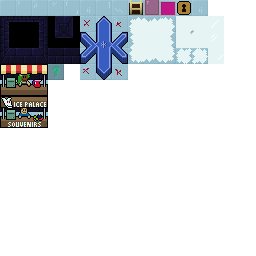
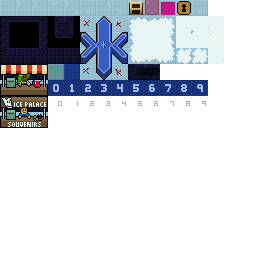
numfloor, and freshen completion flags

Changed region(s): [[0.1875, 0.25, 0.8125, 0.4062]]

diff --git a/src/game/sprite/sprite_numfloor.c b/src/game/sprite/sprite_numfloor.c
@@ -1,0 +1,206 @@
+/* sprite_numfloor.c
+ * 4x4 grid that when you step on a tile, it gets the next digit.
+ * After you've placed '9', the next step clears everything and places '0'.
+ * We coordinate with numfloor_ref to trigger flags.
+ * Our position must be the top-left corner of that 4x4 grid.
+ */
+ 
+#include "game/bellacopia.h"
+
+#define DOOR_LIMIT 8
+
+struct sprite_numfloor {
+  struct sprite hdr;
+  int qx,qy; // Top left corner in plane meters.
+  struct door {
+    int fld16id;
+    int fldid;
+    int password; // Value under (fld16id). If zero, we haven't got it yet. Lazy.
+  } doorv[DOOR_LIMIT];
+  int doorc;
+  int hx,hy; // Recent quantized hero position.
+  uint8_t state[16]; // 4x4 LRTB of tileid. Zero for none.
+  int next; // 0..9, next digit we'll place. If 0, we'll clear the state first.
+};
+
+#define SPRITE ((struct sprite_numfloor*)sprite)
+
+/* Init.
+ */
+ 
+static int _numfloor_init(struct sprite *sprite) {
+
+  SPRITE->qx=(int)sprite->x;
+  SPRITE->qy=(int)sprite->y;
+  SPRITE->hx=SPRITE->hy=-1;
+
+  /* Read the map to identify my associated passwords.
+   * numfloor and numfloor_ref in a group must all be on the same map.
+   */
+  const struct map *map=map_by_sprite_position(sprite->x,sprite->y,sprite->z);
+  if (!map) return -1;
+  struct cmdlist_reader reader={.v=map->cmd,.c=map->cmdc};
+  struct cmdlist_entry cmd;
+  while (cmdlist_reader_next(&cmd,&reader)>0) {
+    switch (cmd.opcode) {
+      case CMD_map_sprite: {
+          int rid=(cmd.arg[2]<<8)|cmd.arg[3];
+          if (rid==RID_sprite_numfloor_ref) {
+            int fld16id=(cmd.arg[4]<<8)|cmd.arg[5];
+            int fldid=(cmd.arg[6]<<8)|cmd.arg[7];
+            if (SPRITE->doorc>DOOR_LIMIT) {
+              fprintf(stderr,"Too many doors for numfloor, limit %d.\n",DOOR_LIMIT);
+            } else {
+              SPRITE->doorv[SPRITE->doorc++]=(struct door){fld16id,fldid,0};
+            }
+          }
+        } break;
+    }
+  }
+  
+  return 0;
+}
+
+/* There are four positions where a password can be encoded.
+ * Since there's only ten digits, only two positions can be full at a time, but just let that happen naturally.
+ * This gets called on every state change (but not initially), and it sets every known output field.
+ * Returns nonzero if we played a sound.
+ */
+ 
+static int numfloor_check_completion(struct sprite *sprite) {
+  if (!SPRITE->doorc) return 0;
+  int result=0;
+
+  // Collect the four-digit passwords currently present. (can't actually be more than two, and zero is perfectly normal).
+  int passv[4];
+  int passc=0;
+  const uint8_t *src=SPRITE->state;
+  int i=4;
+  for (;i-->0;src+=4) {
+    if (!src[0]||!src[1]||!src[2]||!src[3]) continue; // Row has at least one blank.
+    passv[passc++]=(
+      (src[0]-sprite->tileid)*1000+
+      (src[1]-sprite->tileid)*100+
+      (src[2]-sprite->tileid)*10+
+      (src[3]-sprite->tileid)
+    );
+  }
+  
+  // Visit each door. Load its password if we haven't yet, and compare to the visible passwords.
+  // Set each door's flag every time. If one was held open from a previous session, the first step closes it.
+  struct door *door=SPRITE->doorv;
+  for (i=SPRITE->doorc;i-->0;door++) {
+    if (!door->password) door->password=store_get_fld16(door->fld16id);
+    int present=0;
+    const int *pp=passv;
+    int pi=passc;
+    for (;pi-->0;pp++) if (*pp==door->password) {
+      present=1;
+      break;
+    }
+    int pv=store_get_fld(door->fldid);
+    if (present&&!pv) {
+      result=1;
+      store_set_fld(door->fldid,1);
+      g.camera.mapsdirty=1;
+    } else if (!present&&pv) {
+      store_set_fld(door->fldid,0);
+      g.camera.mapsdirty=1;
+    }
+  }
+  if (result) bm_sound(RID_sound_treasure);
+  return result;
+}
+
+/* We got stepped on.
+ * (rx,ry) is the relative cell position 0..3, no oobs please.
+ */
+ 
+static void numfloor_visit_cell(struct sprite *sprite,int rx,int ry) {
+  int p=ry*4+rx;
+  if ((p<0)||(p>=sizeof(SPRITE->state))) return; // oy, we said no oobs!
+  if (SPRITE->state[p]) return; // Restepping on a visited cell has no effect.
+  if (!SPRITE->next) memset(SPRITE->state,0,sizeof(SPRITE->state)); // Before placing zero, clear the state.
+  SPRITE->state[p]=sprite->tileid+SPRITE->next;
+  int digit=SPRITE->next;
+  if (++(SPRITE->next)>=10) SPRITE->next=0;
+  if (GRP(hero)->sprc>=1) { // Make a toast with the newly-placed digit, same idea as minesweep.
+    struct sprite *hero=GRP(hero)->sprv[0];
+    struct sprite *toast=sprite_spawn(hero->x,hero->y-0.5,0,0,0,&sprite_type_toast,0,0);
+    if (toast) {
+      char ch='0'+digit;
+      sprite_toast_set_text(toast,&ch,1);
+    }
+  }
+  if (!numfloor_check_completion(sprite)) {
+    bm_sound(RID_sound_treadle);
+  }
+}
+
+/* Update.
+ */
+ 
+static void _numfloor_update(struct sprite *sprite,double elapsed) {
+  int hx=-1,hy=-1;
+  if (GRP(hero)->sprc>=1) {
+    struct sprite *hero=GRP(hero)->sprv[0];
+    if (sprite_hero_is_grounded(hero)) {
+      hx=(int)hero->x;
+      hy=(int)hero->y;
+    }
+  }
+  if ((hx!=SPRITE->hx)||(hy!=SPRITE->hy)) {
+    SPRITE->hx=hx;
+    SPRITE->hy=hy;
+    int rx=hx-SPRITE->qx;
+    int ry=hy-SPRITE->qy;
+    if ((rx>=0)&&(rx<4)&&(ry>=0)&&(ry<4)) {
+      numfloor_visit_cell(sprite,rx,ry);
+    }
+  }
+}
+
+/* Render.
+ */
+ 
+static void _numfloor_render(struct sprite *sprite,int dstx,int dsty) {
+  graf_set_image(&g.graf,sprite->imageid);
+  int dstx0=dstx;
+  int dsty0=dsty;
+  int yi=4;
+  const uint8_t *tileid=SPRITE->state;
+  for (;yi-->0;dsty+=NS_sys_tilesize) {
+    int xi=4;
+    for (dstx=dstx0;xi-->0;dstx+=NS_sys_tilesize,tileid++) {
+      if (!*tileid) continue;
+      graf_tile(&g.graf,dstx,dsty,*tileid,0);
+    }
+  }
+  
+  // While Dot is standing on us, highlight the focussed cell. Same as her shovel.
+  int rx=SPRITE->hx-SPRITE->qx;
+  int ry=SPRITE->hy-SPRITE->qy;
+  if ((rx>=0)&&(rx<4)&&(ry>=0)&&(ry<4)) {
+    int hlx=dstx0+rx*NS_sys_tilesize;
+    int hly=dsty0+ry*NS_sys_tilesize;
+    uint8_t xform=0;
+    switch ((g.framec/10)&3) {
+      case 1: xform=EGG_XFORM_SWAP|EGG_XFORM_XREV; break;
+      case 2: xform=EGG_XFORM_XREV|EGG_XFORM_YREV; break;
+      case 3: xform=EGG_XFORM_SWAP|EGG_XFORM_YREV; break;
+    }
+    graf_set_image(&g.graf,RID_image_hero);
+    graf_tile(&g.graf,hlx,hly,0x00,xform);
+  }
+}
+
+/* Type definition.
+ */
+ 
+const struct sprite_type sprite_type_numfloor={
+  .name="numfloor",
+  .objlen=sizeof(struct sprite_numfloor),
+  .init=_numfloor_init,
+  .update=_numfloor_update,
+  .render=_numfloor_render,
+};

diff --git a/src/game/sprite/sprite_numfloor_ref.c b/src/game/sprite/sprite_numfloor_ref.c
@@ -1,0 +1,86 @@
+/* sprite_numfloor_ref.c
+ * Displays a 4-digit password.
+ */
+ 
+#include "game/bellacopia.h"
+
+struct sprite_numfloor_ref {
+  struct sprite hdr;
+  int fld16id; // Contains my password. I'm responsible for generating it.
+  int fldid; // Set when the password was entered and door is open.
+  int password; // Value under (fld16id). I'm the only one allowed to change it.
+};
+
+#define SPRITE ((struct sprite_numfloor_ref*)sprite)
+
+/* Generic password utilities.
+ */
+ 
+static int numfloor_valid_password(int v) {
+  // Must be in 1..9999 with no duplicate digits.
+  if ((v<1)||(v>9999)) return 0;
+  int k=v/1000;
+  int h=(v/100)%10;
+  int t=(v/10)%10;
+  int o=v%10;
+  if (k==h) return 0;
+  if (k==t) return 0;
+  if (k==o) return 0;
+  if (h==t) return 0;
+  if (h==o) return 0;
+  if (t==o) return 0;
+  return 1;
+}
+
+static int numfloor_generate_password() {
+  uint8_t dv[10]={0,1,2,3,4,5,6,7,8,9};
+  int dc=10;
+  int base=1;
+  int v=0;
+  for (;base<10000;base*=10) {
+    int p=rand()%dc;
+    v+=dv[p]*base;
+    dc--;
+    memmove(dv+p,dv+p+1,dc-p);
+  }
+  return v;
+}
+
+/* Init.
+ */
+ 
+static int _numfloor_ref_init(struct sprite *sprite) {
+  SPRITE->fld16id=(sprite->arg[0]<<8)|sprite->arg[1];
+  SPRITE->fldid=(sprite->arg[2]<<8)|sprite->arg[3];
+  SPRITE->password=store_get_fld16(SPRITE->fld16id);
+  
+  // Generate password if needed.
+  if (!numfloor_valid_password(SPRITE->password)) {
+    SPRITE->password=numfloor_generate_password();
+    store_set_fld16(SPRITE->fld16id,SPRITE->password);
+  }
+
+  return 0;
+}
+
+/* Render.
+ */
+ 
+static void _numfloor_ref_render(struct sprite *sprite,int dstx,int dsty) {
+  // Four tiles spaced 5 pixels apart; first aligns to my natural position.
+  graf_set_image(&g.graf,sprite->imageid);
+  graf_tile(&g.graf,dstx,dsty,sprite->tileid+(SPRITE->password/1000)%10,0); dstx+=5;
+  graf_tile(&g.graf,dstx,dsty,sprite->tileid+(SPRITE->password/100)%10,0); dstx+=5;
+  graf_tile(&g.graf,dstx,dsty,sprite->tileid+(SPRITE->password/10)%10,0); dstx+=5;
+  graf_tile(&g.graf,dstx,dsty,sprite->tileid+SPRITE->password%10,0);
+}
+
+/* Type definition.
+ */
+ 
+const struct sprite_type sprite_type_numfloor_ref={
+  .name="numfloor_ref",
+  .objlen=sizeof(struct sprite_numfloor_ref),
+  .init=_numfloor_ref_init,
+  .render=_numfloor_ref_render,
+};

diff --git a/src/game/shared_symbols.h b/src/game/shared_symbols.h
@@ -391,6 +391,8 @@
 #define NS_sprtype_figureeight      55 /* (u8:orient_hv)01 (u24)0 */
 #define NS_sprtype_eightspawn       56 /* (u32)0 */
 #define NS_sprtype_flagindicator    57 /* (u16:fld)0 (u8:delta)1 (u8)0 */
+#define NS_sprtype_numfloor         58 /* (32)0 ; Coordinates with all numfloor_ref on the same map. */
+#define NS_sprtype_numfloor_ref     59 /* (u16:fld16)password (u16:fld)fldid ; Must exist for the puzzle to work, we're the only thing associating the two fields. */
 #define FOR_EACH_sprtype \
   _(dummy) \
   _(hero) \
@@ -438,7 +440,9 @@
   _(ornament) \
   _(figureeight) \
   _(eightspawn) \
-  _(flagindicator)
+  _(flagindicator) \
+  _(numfloor) \
+  _(numfloor_ref)
   
 #define NS_battle_fishing 1
 #define NS_battle_chopping 2
@@ -902,6 +906,9 @@
 #define NS_fld_walk3 248 /* magnetic north */
 #define NS_fld_walk4 249 /* inconvenience store */
 #define NS_fld_walk5 250 /* crocodile god */
+#define NS_fld_numfloor1 251 /* north leg of ice palace; door state */
+#define NS_fld_numfloor2 252 /* northeast leg of ice palace; door state */
+#define NS_fld_numfloor3 253 /* southeast leg of ice palace; door state */
 
 /* "fld16" are 16 unsigned bits each.
  */
@@ -944,6 +951,9 @@
 #define NS_fld16_surveyor_c_guess 36
 #define NS_fld16_wishing_well 37 /* itemid */
 #define NS_fld16_seasonblocks_seed 38
+#define NS_fld16_numfloor1 39 /* north leg of ice palace, password */
+#define NS_fld16_numfloor2 40 /* northeast leg of ice palace, password */
+#define NS_fld16_numfloor3 41 /* southeast leg of ice palace, password */
 
 /* "clock" are floating-point seconds, and persist as integer ms.
  */

diff --git a/src/game/completion.c b/src/game/completion.c
@@ -11,6 +11,12 @@ static const int fldv_side_quest[]={
   NS_fld_mayor,
   NS_fld_war_over,
   NS_fld_rescued_princess,
+  NS_fld_surveyor_complete,
+  NS_fld_minesweep1,
+  NS_fld_minesweep2,
+  NS_fld_purse1, // temple
+  NS_fld_purse2, // grandpa's puzzle
+  NS_fld_walk1,NS_fld_walk2,NS_fld_walk3,NS_fld_walk4,NS_fld_walk5,
 };
 static const int bucketfldv_side_quest[]={
   NS_fld_barrelhat1,NS_fld_barrelhat2,NS_fld_barrelhat3,NS_fld_barrelhat4,NS_fld_barrelhat5,NS_fld_barrelhat6,NS_fld_barrelhat7,NS_fld_barrelhat8,NS_fld_barrelhat9,0,

diff --git a/README.md b/README.md
@@ -368,3 +368,4 @@ Collecting lil dev things here, since it's such a large project. Write up a neat
 - Pick an orientation for sprites! I've settled on rightward as the default, but some early sprites (eg Dot) are leftward. Good to be consistent about that.
 - Adding things to `shared_symbols.h`, which one does a lot, forces a full rebuild. This needs a solution from the eggdev end, and I'm not sure what that will look like.
 - Some items should only interact from within the pause menu (eg Phonograph). Not worth changing Bellacopia, but keep that in mind next time around. Three kinds of item: Equippable, passive, modal.
+- Capturing `sprite->arg` by reference is a hazard, it keeps shooting me in the ass. Smarter to copy args, and have a separate dedicated "reference to rom" field.
